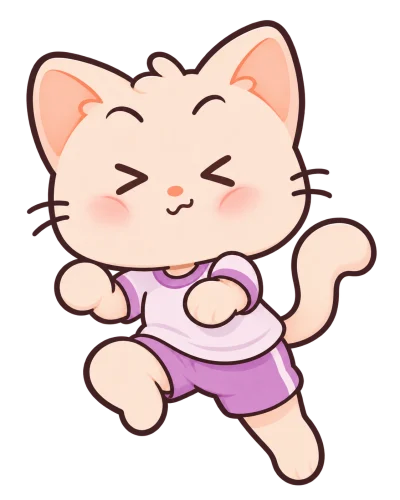
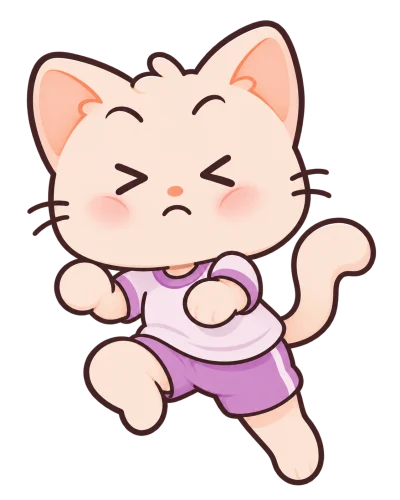
Cycle through three dodgeball hit expressions

diff --git a/dodgeball/index.html b/dodgeball/index.html
@@ -5,9 +5,9 @@
 <meta name="viewport" content="width=device-width,initial-scale=1">
 <title data-en-title="MOMO Dodgeball">MOMO ドッジボール</title>
 <link rel="stylesheet" href="../language.css">
-<link rel="stylesheet" href="dodgeball.css?v=squint">
+<link rel="stylesheet" href="dodgeball.css?v=hit-faces">
 <script defer src="../language.js"></script>
-<script defer src="dodgeball.js"></script>
+<script defer src="dodgeball.js?v=hit-faces"></script>
 </head>
 <body>
 <main>
@@ -21,7 +21,9 @@
     <div class="score"><span data-ja="ヒット">Hits</span> <strong id="hits">0</strong> <span aria-hidden="true">·</span> <span data-ja="のこり">Left</span> <strong id="left">5</strong></div>
     <div class="opponent" aria-hidden="true">
       <img src="cat.webp" alt="" draggable="false">
-      <img class="startled" src="cat-squint.webp" alt="" draggable="false">
+      <img class="hit-face" data-face="squint" src="cat-squint.webp" alt="" draggable="false">
+      <img class="hit-face" data-face="surprised" src="cat-surprised.webp" alt="" draggable="false">
+      <img class="hit-face" data-face="dizzy" src="cat-dizzy.webp" alt="" draggable="false">
       <div class="impact"><i class="glasses"></i><i class="spark">✦</i><i class="spark">✧</i><i class="spark">✦</i></div>
       <span class="reaction" id="reaction" hidden></span>
     </div>

diff --git a/dodgeball/dodgeball.css b/dodgeball/dodgeball.css
@@ -51,9 +51,11 @@ h1 { margin: 0; font-size: clamp(1.2rem, 4vw, 1.8rem); }
 #guide { margin: 8px 4px 0; text-align: center; font-size: .9rem; }
 .sr-only { position: absolute; width: 1px; height: 1px; clip-path: inset(50%); overflow: hidden; white-space: nowrap; }
 @media (prefers-reduced-motion: reduce) { .hit img { animation: none; } }
-.opponent .startled, .impact { display: none; }
+.opponent .hit-face, .impact { display: none; }
 .opponent.hit img:first-child { visibility: hidden; }
-.opponent.hit .startled { display: block; position: absolute; inset: 0; }
+.opponent.hit[data-face="squint"] [data-face="squint"],
+.opponent.hit[data-face="surprised"] [data-face="surprised"],
+.opponent.hit[data-face="dizzy"] [data-face="dizzy"] { display: block; position: absolute; inset: 0; }
 .opponent.hit .impact { display: block; }
 .impact { position: absolute; inset: 0; pointer-events: none; }
 .glasses {

diff --git a/dodgeball/dodgeball.js b/dodgeball/dodgeball.js
@@ -12,6 +12,7 @@
   const retry = document.querySelector('#retry');
   const reducedMotion = matchMedia('(prefers-reduced-motion: reduce)');
   const total = 5;
+  const hitFaces = ['squint', 'surprised', 'dizzy'];
   const clamp = (value, min, max) => Math.min(max, Math.max(min, value));
   const say = (en, ja) => momoLanguage.pick(en, ja);
   let hits = 0;
@@ -86,6 +87,7 @@
     clearTimeout(reactionTimer);
     opponent.classList.remove('hit');
     if (hit) {
+      opponent.dataset.face = hitFaces[(hits - 1) % hitFaces.length];
       // Restart the squash and glasses animations even on consecutive hits.
       void opponent.offsetWidth;
       opponent.classList.add('hit');
